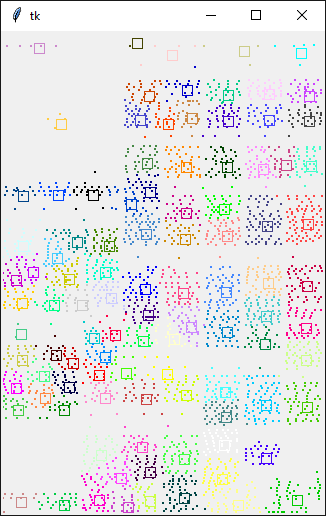
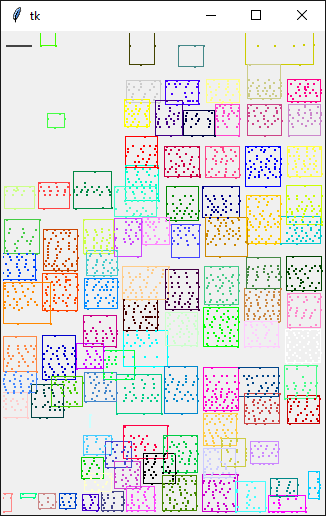
renders actual boxes

diff --git a/kluster.py b/kluster.py
@@ -50,9 +50,15 @@ def accumulate(c0, c1):
     c0[0] += c1[0]
     c0[1] += c1[1]
 def acc_max(c0, c1):
+    if c0 is None:
+        c0 = c1[:]
+        return
     c0[0] = max(c0[0], c1[0])
     c0[1] = max(c0[1], c1[1])
 def acc_min(c0, c1):
+    if c0 is None:
+        c0 = c1[:]
+        return
     c0[0] = min(c0[0], c1[0])
     c0[1] = min(c0[1], c1[1])
 def scale(c, scale):
@@ -69,25 +75,27 @@ def render():
    for j in range(5):
        print('step %d...' % STEP); stdout.flush(); STEP+=1
        kluster_sums = [[0.0,0.0] for i in range(K)]
-       #kluster_sums_min = [[miny,minx] for i in range(K)]
-       #kluster_sums_max = [[maxy,maxx] for i in range(K)]
+       kluster_mins = [list(centers[i]) for i in range(K)]
+       kluster_maxs = [list(centers[i]) for i in range(K)]
        counts = [0 for i in range(K)]
        for i in range(N):
            accumulate(kluster_sums[assignments[i]], coordinates[i])
-           #acc_min(kluster_sums_min[assignments[i]], coordinates[i])
-           #acc_max(kluster_sums_max[assignments[i]], coordinates[i])
+           acc_min(kluster_mins[assignments[i]], coordinates[i])
+           acc_max(kluster_maxs[assignments[i]], coordinates[i])
            counts[assignments[i]] += 1
        for i in range(K):
            centers[i] = randcoor() if counts[i]==0 else scale(kluster_sums[i], 1.0/counts[i])
-           #accumulate(kluster_sums_min[i],kluster_sums_max[i])
-           #centers[i] = randcoor() if counts[i]==0 else scale(kluster_sums_min[i], 1.0/2.0)
+           #accumulate(kluster_mins[i],kluster_maxs[i])
+           #centers[i] = randcoor() if counts[i]==0 else scale(kluster_mins[i], 1.0/2.0)
        assignments = [closest_cent(centers, coor) for coor in coordinates]
 
    lvls = '00 CC 44 FF 88'.split()
    colors = ['#'+R+G+B for R in lvls for G in lvls for B in lvls]
    for i in range(K):
        y,x = to_canvas(centers[i])
-       w.create_rectangle(x, y, x+10, y+10, outline=colors[i])
+       y0,x0 = to_canvas(kluster_mins[i])
+       y1,x1 = to_canvas(kluster_maxs[i])
+       w.create_rectangle(x0,y0,x1,y1, outline=colors[i])
    for i in range(N):
        y,x = to_canvas(coordinates[i])
        w.create_rectangle(x, y, x+1, y+1, outline=colors[assignments[i]])
